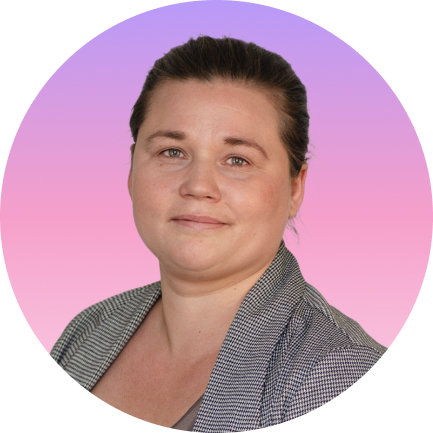
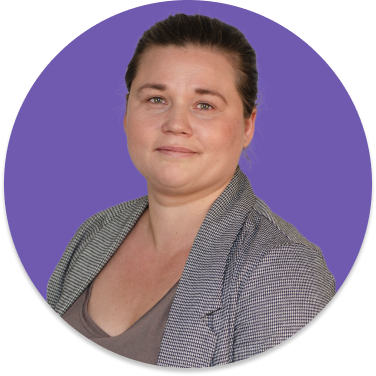
fixing color theme

diff --git a/src/index.css b/src/index.css
@@ -22,9 +22,15 @@ html {
   );
   --border-modern: linear-gradient(
     120deg,
-    rgba(139, 92, 246, 0.62),
-    rgba(236, 72, 153, 0.52),
-    rgba(255, 255, 255, 0.24)
+    rgba(92, 56, 185, 0.52),
+    rgba(109, 72, 220, 0.42),
+    rgba(92, 56, 185, 0.18)
+  );
+  --card-frame-glow: linear-gradient(
+    135deg,
+    rgba(92, 56, 185, 0.16),
+    rgba(109, 72, 220, 0.12),
+    rgba(255, 255, 255, 0.03)
   );
 }
 
@@ -145,11 +151,7 @@ h1 {
   padding: 1px;
   border-radius: 18px;
 
-  background: linear-gradient(
-    135deg,
-    rgba(255, 255, 255, 0.22),
-    rgba(255, 255, 255, 0.06)
-  );
+  background: var(--card-frame-glow);
 }
 a.flex gap-6 flex-wrap justify-center {
   padding: 10%;
@@ -504,7 +506,12 @@ a.flex gap-6 flex-wrap justify-center {
 
 .carousel-nav:hover {
   transform: translateY(-2px);
-  background: rgba(236, 72, 153, 0.2);
+  background: linear-gradient(
+    135deg,
+    rgba(92, 56, 185, 0.36),
+    rgba(109, 72, 220, 0.28)
+  );
+  border-color: rgba(92, 56, 185, 0.6);
 }
 
 .carousel-mobile-controls {
@@ -550,8 +557,9 @@ a.flex gap-6 flex-wrap justify-center {
 }
 
 .carousel-dot.is-active {
-  background: #ec4899;
+  background: linear-gradient(135deg, rgba(92, 56, 185, 0.95), rgba(109, 72, 220, 0.88));
   transform: scale(1.2);
+  box-shadow: 0 0 14px rgba(92, 56, 185, 0.3);
 }
 
 /* =========================
@@ -575,11 +583,7 @@ a.flex gap-6 flex-wrap justify-center {
   margin-top: 18px;
   padding: 1px;
   border-radius: 18px;
-  background: linear-gradient(
-    135deg,
-    rgba(255, 255, 255, 0.22),
-    rgba(255, 255, 255, 0.06)
-  );
+  background: var(--card-frame-glow);
 }
 
 .contact-card {
@@ -681,7 +685,12 @@ a.flex gap-6 flex-wrap justify-center {
 
 .contact-chip:hover {
   transform: translateY(-2px);
-  background: rgba(236, 72, 153, 0.18);
+  background: linear-gradient(
+    135deg,
+    rgba(92, 56, 185, 0.28),
+    rgba(109, 72, 220, 0.22)
+  );
+  border-color: rgba(92, 56, 185, 0.6);
 }
 
 .contact-chip-icon {
@@ -959,24 +968,36 @@ a.flex gap-6 flex-wrap justify-center {
 .language-switcher {
   border-radius: 999px !important;
   padding: 4px;
-  background: rgba(255, 255, 255, 0.08);
-  border: 1px solid rgba(168, 85, 247, 0.4);
+  background: linear-gradient(
+    135deg,
+    rgba(92, 56, 185, 0.18),
+    rgba(109, 72, 220, 0.12)
+  );
+  border: 1px solid rgba(92, 56, 185, 0.42);
   flex-shrink: 0 !important;
 }
 
 .language-switcher [data-active] {
   border-radius: 999px !important;
-  background: linear-gradient(135deg, #8b5cf6, #a855f7);
-  box-shadow: 0 0 10px rgba(168, 85, 247, 0.4);
+  background: linear-gradient(
+    135deg,
+    rgba(92, 56, 185, 0.9),
+    rgba(109, 72, 220, 0.8)
+  );
+  box-shadow: 0 0 10px rgba(92, 56, 185, 0.28);
+  color: white !important;
 }
 
 .language-switcher label {
-  color: #d1d5db;
+  color: rgba(255, 255, 255, 0.8);
   font-weight: 600;
   transition: 0.2s;
 }
 
+.language-switcher [data-active],
 .language-switcher [data-active] + label,
-.language-switcher label:has(input:checked) {
-  color: white;
+.language-switcher label:has(input:checked),
+.language-switcher input:checked + label,
+.language-switcher .mantine-SegmentedControl-label[data-active] {
+  color: white !important;
 }
